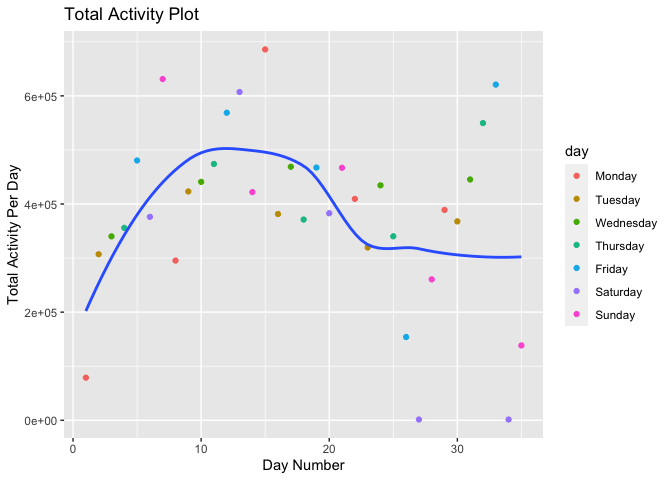
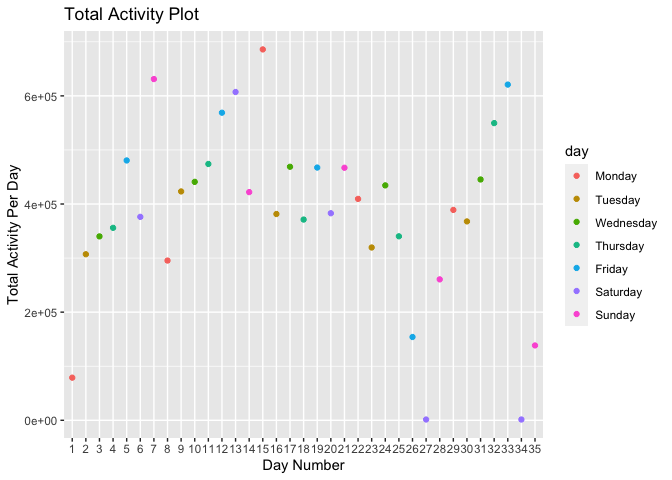
updated activity over the course of the day plot to a line plot

diff --git a/p8105_hw3_si2426.md b/p8105_hw3_si2426.md
@@ -7,7 +7,7 @@ p8105_homework 3
 #### Loading and Cleaning Data
 
 ``` r
-accel_df = read_csv("./data/accel_data.csv") %>% janitor::clean_names() %>% pivot_longer(-c(week, day_id, day), names_to = "minute", values_to = "activity_counts") %>% mutate(minute = as.integer(gsub('[activity_]', '', minute))) %>% mutate(weekday_v_weekend = ifelse(day == "Saturday" | day == "Sunday", "Weekend", "Weekday")) %>% mutate(day = factor(day, levels = c("Monday", "Tuesday", "Wednesday", "Thursday", "Friday", "Saturday", "Sunday")), weekday_v_weekend = as.factor(weekday_v_weekend)) %>% arrange(week, day) %>% group_by(week, day) %>% mutate(day_number = cur_group_id())
+accel_df = read_csv("./data/accel_data.csv") %>% janitor::clean_names() %>% pivot_longer(-c(week, day_id, day), names_to = "minute", values_to = "activity_counts") %>% mutate(minute = as.double(gsub('[activity_]', '', minute))) %>% mutate(weekday_v_weekend = ifelse(day == "Saturday" | day == "Sunday", "Weekend", "Weekday")) %>% mutate(day = factor(day, levels = c("Monday", "Tuesday", "Wednesday", "Thursday", "Friday", "Saturday", "Sunday")), weekday_v_weekend = as.factor(weekday_v_weekend)) %>% arrange(week, day) %>% group_by(week, day) %>% mutate(day_number = as.factor(cur_group_id()))
 ```
 
 In order to clean the data, the variable names were cleaned using
@@ -16,22 +16,22 @@ the data and create a row for each observation (each minute was given an
 entry in the newly created `minute` variable). The corresponding
 activity count values were added to the `activity_counts` variable. The
 “activity\_” prefix in the `minute` variable were removed to have a
-integer variable that only contained the numeric values of the minutes.
-A `weekday_v_weekend` variable was created to distinguish between the
-types of days. The `day` variable was coerced into a factor variable
-based on the days of the week, starting with Monday. The dataset was
-then arranged by `week` and `day` order, meaning the first day would be
-the Monday in week 1 which is followed by the Tuesday in week 1 (this
-was done as the original dataset did not have the days ordered correctly
-within each week). A new variable called `day_number` was created to
-list and number the days in sequential order. The resulting dataset
-contains 50400 observations (one minute for each of the 35 days). The
-dataset contains the following variables: `week` to represent the week
-number, `day_id` to represent the day number (ranging from 1 to 35),
-`day` variable to represent the day of the week, `minute` to represent
-which minute of the day, `activity_counts` to represent the activity at
-that specific minute, and `weekday_v_weekend` to represent the type of
-day. The mean activity count per minute was 267.044.
+variable of type double that only contained the numeric values of the
+minutes. A `weekday_v_weekend` variable was created to distinguish
+between the types of days. The `day` variable was coerced into a factor
+variable based on the days of the week, starting with Monday. The
+dataset was then arranged by `week` and `day` order, meaning the first
+day would be the Monday in week 1 which is followed by the Tuesday in
+week 1 (this was done as the original dataset did not have the days
+ordered correctly within each week). A new variable called `day_number`
+was created to list and number the days in sequential order. The
+resulting dataset contains 50400 observations (one minute for each of
+the 35 days). The dataset contains the following variables: `week` to
+represent the week number, `day_id` to represent the day number (ranging
+from 1 to 35), `day` variable to represent the day of the week, `minute`
+to represent which minute of the day, `activity_counts` to represent the
+activity at that specific minute, and `weekday_v_weekend` to represent
+the type of day. The mean activity count per minute was 267.044.
 
 #### Total Activity Over the Days
 
@@ -48,42 +48,42 @@ total_activity_df %>%
 ```
 
 | day_number | week | day       | total_activity |
-|-----------:|-----:|:----------|---------------:|
-|          1 |    1 | Monday    |       78828.07 |
-|          2 |    1 | Tuesday   |      307094.24 |
-|          3 |    1 | Wednesday |      340115.01 |
-|          4 |    1 | Thursday  |      355923.64 |
-|          5 |    1 | Friday    |      480542.62 |
-|          6 |    1 | Saturday  |      376254.00 |
-|          7 |    1 | Sunday    |      631105.00 |
-|          8 |    2 | Monday    |      295431.00 |
-|          9 |    2 | Tuesday   |      423245.00 |
-|         10 |    2 | Wednesday |      440962.00 |
-|         11 |    2 | Thursday  |      474048.00 |
-|         12 |    2 | Friday    |      568839.00 |
-|         13 |    2 | Saturday  |      607175.00 |
-|         14 |    2 | Sunday    |      422018.00 |
-|         15 |    3 | Monday    |      685910.00 |
-|         16 |    3 | Tuesday   |      381507.00 |
-|         17 |    3 | Wednesday |      468869.00 |
-|         18 |    3 | Thursday  |      371230.00 |
-|         19 |    3 | Friday    |      467420.00 |
-|         20 |    3 | Saturday  |      382928.00 |
-|         21 |    3 | Sunday    |      467052.00 |
-|         22 |    4 | Monday    |      409450.00 |
-|         23 |    4 | Tuesday   |      319568.00 |
-|         24 |    4 | Wednesday |      434460.00 |
-|         25 |    4 | Thursday  |      340291.00 |
-|         26 |    4 | Friday    |      154049.00 |
-|         27 |    4 | Saturday  |        1440.00 |
-|         28 |    4 | Sunday    |      260617.00 |
-|         29 |    5 | Monday    |      389080.00 |
-|         30 |    5 | Tuesday   |      367824.00 |
-|         31 |    5 | Wednesday |      445366.00 |
-|         32 |    5 | Thursday  |      549658.00 |
-|         33 |    5 | Friday    |      620860.00 |
-|         34 |    5 | Saturday  |        1440.00 |
-|         35 |    5 | Sunday    |      138421.00 |
+|:-----------|-----:|:----------|---------------:|
+| 1          |    1 | Monday    |       78828.07 |
+| 2          |    1 | Tuesday   |      307094.24 |
+| 3          |    1 | Wednesday |      340115.01 |
+| 4          |    1 | Thursday  |      355923.64 |
+| 5          |    1 | Friday    |      480542.62 |
+| 6          |    1 | Saturday  |      376254.00 |
+| 7          |    1 | Sunday    |      631105.00 |
+| 8          |    2 | Monday    |      295431.00 |
+| 9          |    2 | Tuesday   |      423245.00 |
+| 10         |    2 | Wednesday |      440962.00 |
+| 11         |    2 | Thursday  |      474048.00 |
+| 12         |    2 | Friday    |      568839.00 |
+| 13         |    2 | Saturday  |      607175.00 |
+| 14         |    2 | Sunday    |      422018.00 |
+| 15         |    3 | Monday    |      685910.00 |
+| 16         |    3 | Tuesday   |      381507.00 |
+| 17         |    3 | Wednesday |      468869.00 |
+| 18         |    3 | Thursday  |      371230.00 |
+| 19         |    3 | Friday    |      467420.00 |
+| 20         |    3 | Saturday  |      382928.00 |
+| 21         |    3 | Sunday    |      467052.00 |
+| 22         |    4 | Monday    |      409450.00 |
+| 23         |    4 | Tuesday   |      319568.00 |
+| 24         |    4 | Wednesday |      434460.00 |
+| 25         |    4 | Thursday  |      340291.00 |
+| 26         |    4 | Friday    |      154049.00 |
+| 27         |    4 | Saturday  |        1440.00 |
+| 28         |    4 | Sunday    |      260617.00 |
+| 29         |    5 | Monday    |      389080.00 |
+| 30         |    5 | Tuesday   |      367824.00 |
+| 31         |    5 | Wednesday |      445366.00 |
+| 32         |    5 | Thursday  |      549658.00 |
+| 33         |    5 | Friday    |      620860.00 |
+| 34         |    5 | Saturday  |        1440.00 |
+| 35         |    5 | Sunday    |      138421.00 |
 
 It can be noted that, according to the table, the man’s activity levels
 were the lowest on the fourth and fifth Saturdays. On these days, his
@@ -123,37 +123,46 @@ accel_hour_df = accel_df %>%
   group_by(hour, day, day_number) %>% 
   summarize(hourly_total = sum(activity_counts)) %>% arrange(day_number)
 
-accel_hour_plot = ggplot(accel_hour_df, aes(x = hour, y = hourly_total)) + 
-  geom_point(aes(color = day)) +
-  geom_smooth(se = FALSE) +  labs(
+accel_hour_plot = ggplot(
+  accel_hour_df, aes(x = hour, y = hourly_total)) +
+  geom_point(aes(group = day_number, color = day)) +
+  geom_line(aes(group = day_number, color = day)) +
+  geom_smooth(se = FALSE) +
+  labs(
     title = "Activity Over the Course of the Day (Hours)",
     x = "Hour (military time)",
     y = "Activity")
 
-accel_min_plot = ggplot(accel_df, aes(x = minute, y = activity_counts)) + 
-  geom_point(aes(color = day)) +
-  geom_smooth(se = FALSE) +  
+accel_min_plot = ggplot(
+  accel_df, aes(x = minute, y = activity_counts, group = day_number, color = day)) + 
+  geom_point(aes(group = day_number, color = day)) +
+  geom_line(aes(group = day_number, color = day)) +
+  geom_smooth(se = FALSE, na.rm = TRUE) +
   labs(
     title = "Activity Over the Course of the Day (Minutes)",
     x = "Minute",
     y = "Activity")
 
+
 accel_min_plot + accel_hour_plot
 ```
+
+    ## Warning: Computation failed in `stat_smooth()`:
+    ## NA/NaN/Inf in foreign function call (arg 3)
 
 ![](p8105_hw3_si2426_files/figure-gfm/unnamed-chunk-4-1.png)<!-- -->
 
 The plots above depict the man’s recorded activity levels throughout the
 day. The graph on the left depicts his activity level at each minute
 while the graph on the right depicts his activity level totals across
-each hour of the day in order to better visualize the data. According to
-both the minutes and hour plots, the overall trend was that the man’s
-activity level would gradually increase during the day until around
-10:00, after which it would plateau until around 19:00. The man’s
-activity levels would decrease from 19:00 until the end of the day.
-There were several instances, such as numerous minutes on a Sunday
-morning, during which the man was much more active as shown in the
-minutes graph.
+each hour of the day in order to better visualize the data, as it is
+quite difficult to view trends in the minute plot. According to both the
+minute and hour plots, the overall trend was that the man’s activity
+level would gradually increase during the day until around 10:00, after
+which it would plateau until around 19:00. The man’s activity levels
+would decrease from 19:00 until the end of the day. There were several
+instances, such as one Sunday morning around 11:00 am, during which the
+man was much more active.
 
 ## Problem 3
 
@@ -245,5 +254,13 @@ tmax_v_tmin + noaa_density
 
     ## Warning: Removed 1136276 rows containing non-finite values (stat_binhex).
 
-![](p8105_hw3_si2426_files/figure-gfm/unnamed-chunk-8-1.png)<!-- --> \#
-WRITE SUMMARY
+![](p8105_hw3_si2426_files/figure-gfm/unnamed-chunk-8-1.png)<!-- --> In
+the plot comparing maximum temperature to minimum temperature, there
+appears to be a general positive relationship between the two variables.
+According to the hex plot, it appears that most values tend to be
+concentrated where maximum and minimum temperatures are both between 0
+and 30 degrees, In the snowfall density plot, there appears to be a
+multimodal distribution of snowfall values. It can also be noted that
+there appears to be an increased number of low snowfall values in recent
+years (denoted by the lighter yellow color), indicating that snowfall
+values might be decreasing in some areas.
